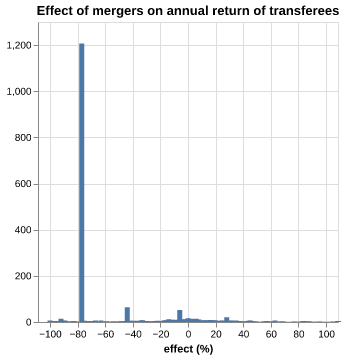
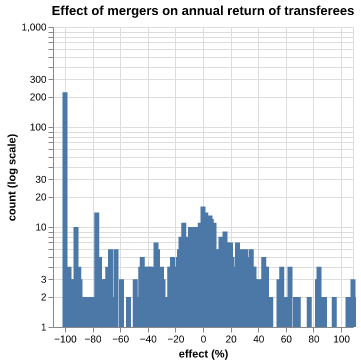
Deployed 2112951 with MkDocs version: 1.6.0

diff --git a/register_of_merged_charities/mergers_by_annual_return/index.html b/register_of_merged_charities/mergers_by_annual_return/index.html
@@ -471,18 +471,18 @@
       <ul class="md-nav__list">
         
           <li class="md-nav__item">
-  <a href="#12-of-mergers-result-in-the-creation-of-new-charities" class="md-nav__link">
+  <a href="#11-of-mergers-result-in-the-creation-of-new-charities" class="md-nav__link">
     <span class="md-ellipsis">
-      12% of mergers result in the creation of new charities
+      11% of mergers result in the creation of new charities
     </span>
   </a>
   
 </li>
         
           <li class="md-nav__item">
-  <a href="#the-bulk-of-transferees-seem-to-have-had-40-change-to-their-annual-returns-within-the-financial-period-that-a-merger-happened-in" class="md-nav__link">
+  <a href="#after-a-merger-most-transferee-organisations-either-cease-to-exist-or-have-a-40-change-to-their-annual-return" class="md-nav__link">
     <span class="md-ellipsis">
-      The bulk of transferees seem to have had +/- 40% change to their annual returns within the financial period that a merger happened in.
+      After a merger, most transferee organisations either cease to exist or have a +/- 40% change to their annual return.
     </span>
   </a>
   
@@ -538,17 +538,19 @@
 
 <h1 id="register-of-merged-charities">Register of merged charities<a class="headerlink" href="#register-of-merged-charities" title="Permanent link">#</a></h1>
 <h2 id="effect-of-mergers-on-annual-return">Effect of mergers on annual return<a class="headerlink" href="#effect-of-mergers-on-annual-return" title="Permanent link">#</a></h2>
-<h4 id="12-of-mergers-result-in-the-creation-of-new-charities">12% of mergers result in the creation of new charities<a class="headerlink" href="#12-of-mergers-result-in-the-creation-of-new-charities" title="Permanent link">#</a></h4>
+<h4 id="11-of-mergers-result-in-the-creation-of-new-charities">11% of mergers result in the creation of new charities<a class="headerlink" href="#11-of-mergers-result-in-the-creation-of-new-charities" title="Permanent link">#</a></h4>
 <p>As indicated by the number of unregistered organisations or organisations with an annual return of 0 before merger, and &gt;0 after merger.</p>
-<p>Most mergers seem to result in the transferee having a 80% decrease of their annual return.</p>
+<h4 id="after-a-merger-most-transferee-organisations-either-cease-to-exist-or-have-a-40-change-to-their-annual-return">After a merger, most transferee organisations either cease to exist or have a +/- 40% change to their annual return.<a class="headerlink" href="#after-a-merger-most-transferee-organisations-either-cease-to-exist-or-have-a-40-change-to-their-annual-return" title="Permanent link">#</a></h4>
 <p><img alt="" src="../../assets/effect_transferees.png" /></p>
-<p>However, this peak at 1200 is reminiscent of a previous chart...</p>
-<p>The story is different when we exclude Kingdom Hall Trust from our analysis.</p>
-<h4 id="the-bulk-of-transferees-seem-to-have-had-40-change-to-their-annual-returns-within-the-financial-period-that-a-merger-happened-in">The bulk of transferees seem to have had +/- 40% change to their annual returns within the financial period that a merger happened in.<a class="headerlink" href="#the-bulk-of-transferees-seem-to-have-had-40-change-to-their-annual-returns-within-the-financial-period-that-a-merger-happened-in" title="Permanent link">#</a></h4>
-<p><img alt="" src="../../assets/effect_transferees_sans.png" /></p>
+<p>According to the data, most mergers (including consolidation mergers) are of the type:</p>
+<ul>
+<li>the transferees do not declare an annual return, indicating either that they cease to exist within the financial period</li>
+<li>the transferee have a +/- 40% change to their annual returns within the financial period that a merger happened in.</li>
+</ul>
+<p>The majority of transferees disappearing after a merger is suspicious and might indicate an issue in the analysis or a subsequent merger into a new structure within the financial period.</p>
 <h4 id="for-most-transferors-their-annual-return-either-went-to-0-or-remained-the-same">For most transferors, their annual return either went to 0 or remained the same.<a class="headerlink" href="#for-most-transferors-their-annual-return-either-went-to-0-or-remained-the-same" title="Permanent link">#</a></h4>
 <p><img alt="" src="../../assets/effect_transferors.png" /></p>
-<p>This indicates that most transferors either merge into the transferee and cease to exist as an entity, or their merger is largely inconsequential in terms of annual return.</p>
+<p>This indicates that most transferors either merge into the transferee and cease to exist as an entity (effect -100%), or their merger is largely inconsequential in terms of annual return. However, some transferors declare their first annual return after the merger (effect +100%), which raises questions about the analysis, but a domain expert might be able to explain this.</p>
 
 
 

diff --git a/register_of_merged_charities/data_quality/index.html b/register_of_merged_charities/data_quality/index.html
@@ -578,7 +578,7 @@
 <p><img alt="" src="../../assets/diff_transfer_registration_year.png" /></p>
 <p>These very few ancient transfers and their late registrations are probably errors, so we'll choose to drop any transfers from &lt;2008 in our analysis, as they are few and represent the bulk of the long <code>registered-transfer</code> durations.</p>
 <h3 id="different-spellings-for-charity-names">Different spellings for charity names<a class="headerlink" href="#different-spellings-for-charity-names" title="Permanent link">#</a></h3>
-<p>In a few hundred records, the name of the same charity can be spelled in slightly different ways: for example, <em>CANTERBURY AND DISTRICT BRANCH OF THE RSPCA</em> and <em>RSPCA Canterbury, Dover and District Branch</em>.</p>
+<p>In a few hundred records, the name of the same charity can be spelled in slightly different ways: for example, <em>Harrogate &amp; Area Council for Voluntary Service Ltd</em> and <em>Harrogate and Area Council for voluntary Services Limited</em>.</p>
 <h3 id="no-standard-way-of-indicating-charity-numbers">No standard way of indicating charity numbers<a class="headerlink" href="#no-standard-way-of-indicating-charity-numbers" title="Permanent link">#</a></h3>
 <p>Charity numbers are generally indicated in the data files as a series of digits between parentheses at the end of the charity name: for example, <code>Crisis UK (1082947)</code>.</p>
 <p>The charity numbers are sometimes not between parentheses, or contain varying separator characters (1170369-1 vs 1053467.01), or the parentheses contain additional information (status or name).</p>
